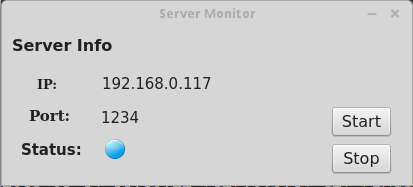
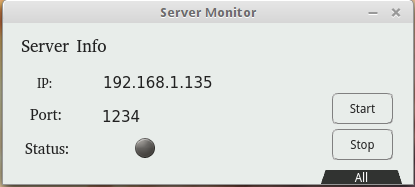
a

diff --git a/monitorui.cpp b/monitorui.cpp
@@ -3,11 +3,13 @@
 #include "settings.h"
 #include "log.h"
 #include "database.h"
+#include "starter.h"
 
 #include "ui_monitorui.h"
 #include "monitorui.h"
 
-#include "starter.h"
+#include "ips.h"
+#include "ui_ips.h"
 
 
 MonitorUI::MonitorUI(QWidget *parent) :
@@ -25,19 +27,23 @@ MonitorUI::MonitorUI(QWidget *parent) :
 
     QString ip = Starter::instance().getIPAddress();
     ui->label_ipv->setText(ip);
+
+    canvas = new ips();
 }
 
 MonitorUI::~MonitorUI()
 {
     delete ui;
+    delete canvas;
 }
 
 void MonitorUI::on_pushButton_start_clicked()
 {
+    ui->pushButton_start->setDisabled(true);
     ui->label_blue->show();
     ui->label_black->hide();
     Log::instance() << APPLICATION_NAME << Log::NEWLINE << Log::FLUSH;
-    if (!Starter::instance().start())
+    if (!Starter::instance().start()) //a Singleton Pattern instance
         return;
 }
 
@@ -45,6 +51,19 @@ void MonitorUI::on_pushButton_stop_clicked()
 {
     ui->label_blue->hide();
     ui->label_black->show();
+    canvas->close();
     if (!Starter::instance().stop())
         return;
 }
+
+void MonitorUI::on_pushButton_all_clicked(bool checked)
+{
+    if (checked)
+    {
+        canvas->getData();
+        canvas->show();
+    }
+    else
+        canvas->hide();
+}
+

diff --git a/ips.cpp b/ips.cpp
@@ -1,0 +1,37 @@
+#include "ips.h"
+#include "ui_ips.h"
+#include "monitorui.h"
+#include "ui_monitorui.h"
+#include <iostream>
+#include <log.h>
+
+ips::ips(QWidget *parent) :
+    QWidget(parent),
+    ui(new Ui::ips)
+{
+    ui->setupUi(this);
+    this->setFixedSize( this->width (),this->height ()); // 禁止改变窗口大小。
+    this->setWindowFlags(Qt::CustomizeWindowHint|Qt::FramelessWindowHint);
+}
+
+ips::~ips()
+{
+    delete ui;
+}
+
+void ips::getData()
+{
+    std::string buffer, text;
+    redis = new Database(6378);
+    int index = 1;
+
+    buffer = redis->readIP(index);
+    while (buffer != std::string(""))
+    {
+        buffer = redis->readIP(++index);
+        text = text + "\n" + buffer;
+    }
+    ui->info->setText(text.data());
+    std::cout<<text;
+}
+

diff --git a/database.cpp b/database.cpp
@@ -26,6 +26,27 @@ void Database::recordIP(int vistor, std::string time, std::string ip, int port, 
     freeReplyObject(reply);
 }
 
+std::string Database::readIP(int vistor)
+{
+    std::stringstream ss;
+    std::string vistor_s;
+    ss << vistor;
+    ss >> vistor_s;
+    std::string _vistor = std::string("vistor:") + vistor_s;
+
+    std::string buffer;
+    reply = (redisReply*)redisCommand(context, "HMGET %s time ip port", _vistor.data());
+    if (reply->type == REDIS_REPLY_ARRAY) {
+        if(reply->element[0]->str == NULL)
+            return "";
+
+        for (unsigned int j = 0; j < reply->elements; j++) {
+            buffer += std::string(reply->element[j]->str) + " ";
+        }
+    }
+    return buffer;
+}
+
 Database::~Database()
 {
     redisFree(context);

diff --git a/monitorui.h b/monitorui.h
@@ -2,6 +2,7 @@
 #define MONITORUI_H
 
 #include <QMainWindow>
+#include <ips.h>
 
 namespace Ui {
 class MonitorUI;
@@ -18,10 +19,12 @@ public:
 private slots:
     void on_pushButton_start_clicked();
     void on_pushButton_stop_clicked();
+    void on_pushButton_all_clicked(bool checked);
 
 private:
     Ui::MonitorUI *ui;
     QString ports;
+    ips *canvas;
 };
 
 #endif // MONITORUI_H

diff --git a/ips.h b/ips.h
@@ -1,0 +1,25 @@
+#ifndef IPS_H
+#define IPS_H
+
+#include <QWidget>
+#include <database.h>
+
+namespace Ui {
+class ips;
+}
+
+class ips : public QWidget
+{
+    Q_OBJECT
+
+public:
+    explicit ips(QWidget *parent = 0);
+    void getData();
+    ~ips();
+
+private:
+    Ui::ips* ui;
+    Database* redis;
+};
+
+#endif // IPS_H

diff --git a/starter.h b/starter.h
@@ -5,6 +5,7 @@
 #include "settings.h"
 #include "log.h"
 #include "database.h"
+#include "iostream"
 
 #include "serverthread.h"
 
@@ -16,7 +17,6 @@ public:
     bool start();
     bool stop();
     QString getIPAddress();
-    ~Starter();
 
 private:
     static Starter* m_instance;

diff --git a/database.h b/database.h
@@ -9,6 +9,7 @@ public:
     Database(int port, std::string ip="127.0.0.1");
     ~Database();
     void recordIP(int vistor, std::string time, std::string ip, int port, std::string agent);
+    std::string readIP(int vistor);
 
 private:
     std::string m_ip;

diff --git a/main.cpp b/main.cpp
@@ -1,5 +1,7 @@
 #include "monitorui.h"
 #include "ui_monitorui.h"
+#include "ips.h"
+#include "ui_ips.h"
 #include <QApplication>
 #include <QDir>
 #include <QVariantList>

diff --git a/starter.cpp b/starter.cpp
@@ -46,7 +46,6 @@ bool Starter::stop()
         t->exit();
         t->wait();
     }
-    std::cout << "here";
     return true;
 }
 

diff --git a/README.md b/README.md
@@ -23,12 +23,14 @@ A tiny http server with multi-port monitoring.
 ├── database.cpp          #Redis数据库
 ├── monitorui.cpp         #UI界面
 ├── starter.cpp           #UI界面控制逻辑
+├── ips.cpp               #UI子界面控制逻辑
 #配置
 ├── httpstatus.h          #状态码
 ├── tinyhttpd.ini         #服务器配置文件
 ├── tinyhttpd.log         #服务器日志
 ├── mime.txt              #mime配置
 ├── monitorui.ui          #UI界面配置
+├── ip.ui                 #UI子界面配置
 [www]                     #网站根目录
 ├──static
 ├──index.html
@@ -42,7 +44,8 @@ A tiny http server with multi-port monitoring.
 ├── blue.png 
 [assets]           
 ├── database.png          
-└── monitor.png
+├── monitor.png
+└── ip.png
 ```
 
 ##Todo
@@ -50,7 +53,7 @@ A tiny http server with multi-port monitoring.
 * <del>加入Redis数据库支持，存储访问数据</del>
 * <del>加入QT界面，显示服务器配置参数</del>
 * <del>界面逻辑中加入开始和停止</del>
-* 加入QT子界面，实现界面转换。显示实时连接情况
+* <del>加入QT子界面，实现界面转换。显示实时连接情况</del>
 * 尝试其它的进程模型:单线程或多线程
 
 ##运行环境
@@ -108,7 +111,10 @@ QT运行界面
 
 ![image](/assets/monitor.png)
 
-Redis数据
+QT显示来访数据
+![image](/assets/ip.png)
+
+Redis存储数据
 
 ![image](/assets/database.png)
 
